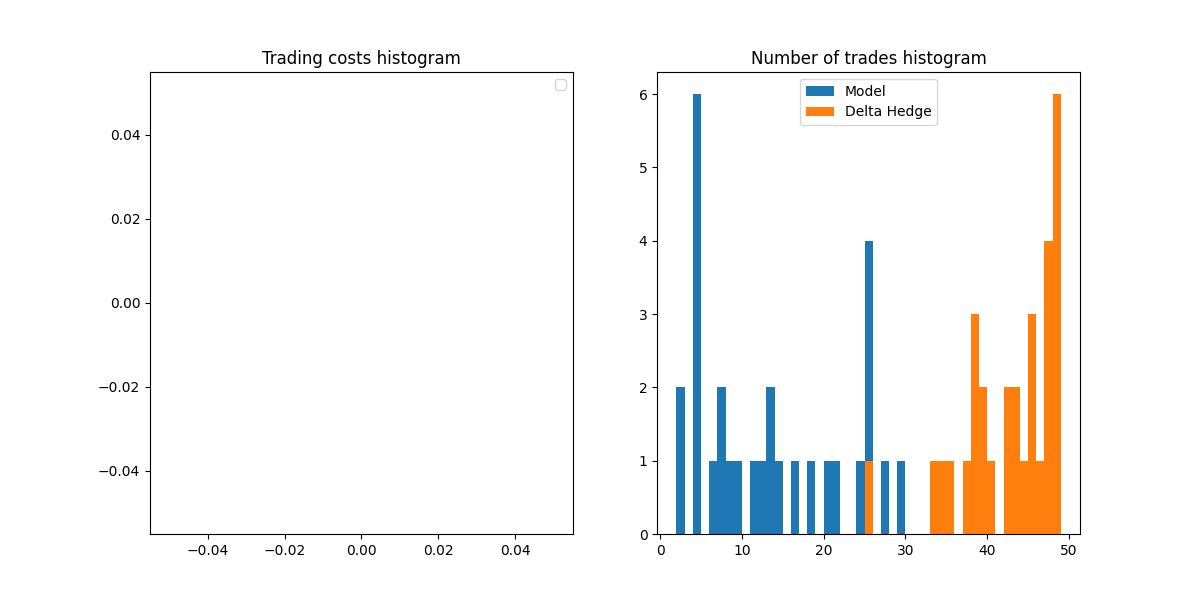
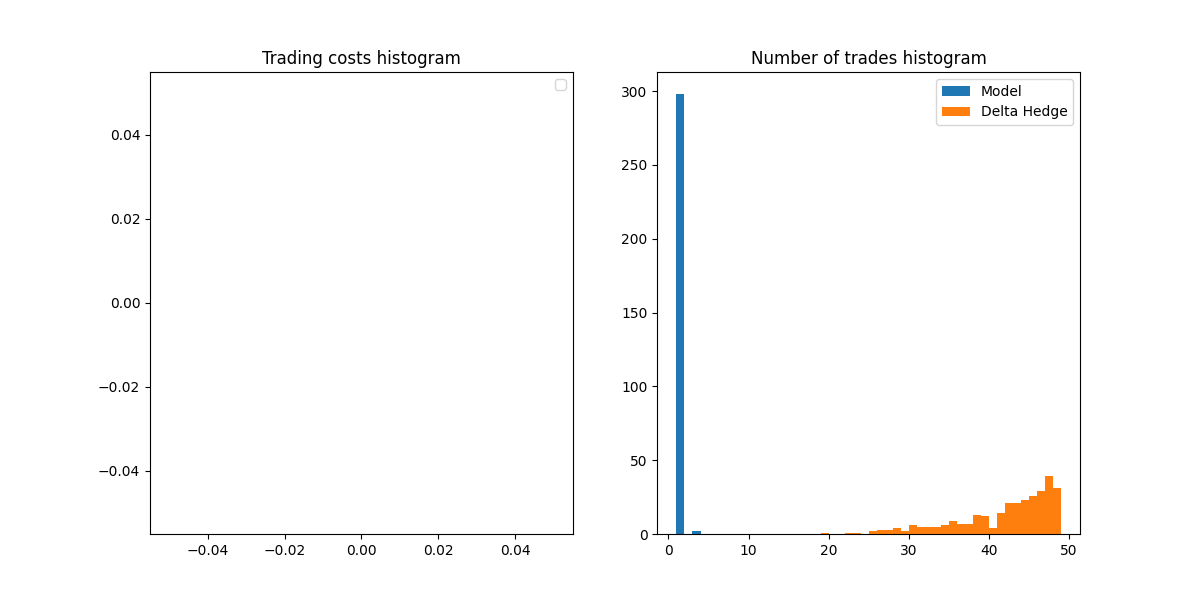
another update: calc vega of a barrier claim

Changed region(s): [[0.5242, 0.12, 0.8942, 0.93]]

diff --git a/Generators.py b/Generators.py
@@ -2,7 +2,7 @@ import numpy as np
 import pandas as pd
 import random
 from random import gauss
-from math import sqrt, exp
+from math import log, sqrt, exp
 from scipy.stats import norm
 
 class GBM_Generator:
@@ -35,6 +35,7 @@ class GBM_Generator:
         self.freq = freq # e.g. freq = 0.5 for trading twice a day
         self.dt = (1.0 / self.T) * freq # time increment
         self.H = barrier
+        self.is_knocked = False
         if seed is not None:
             random.seed(seed)
         
@@ -69,7 +70,7 @@ class GBM_Generator:
         
         return value
 
-    def get_barrier_value(self, K, ttm, up, out, is_knocked = False, call = True):
+    def get_barrier_value(self, K, ttm, up, out, call = True):
         """
         Calculates down & in barrier call/put price under current GBM dynamics.
         
@@ -78,6 +79,14 @@ class GBM_Generator:
             - ttm  = time to maturity in periods
             - call = True/False, whether it's a call or a put
         """
+        if self.is_knocked:
+            is_knocked = True
+        elif (up and (self.current > self.H)) or ((not up) and (self.current < self.H)):
+            self.is_knocked = True
+            is_knocked = True
+        else:
+            is_knocked = False
+
         if is_knocked:
             if out:
                 return 0.0
@@ -170,10 +179,77 @@ class GBM_Generator:
                     else: return down_in_put
         
     
+    def get_DIP_delta(self, spot, K, ttm):
+        if spot < self.H:
+            is_knocked = True
+        elif self.is_knocked:
+            is_knocked = True
+        else:
+            is_knocked = False
+
+        if is_knocked:
+            return self.get_delta(spot, K, ttm) - 1
+
+        ttm = ttm * self.dt # adjusting to annual terms
+        _lambda = 0.5 + self.r / (self.sigma ** 2)
+        c = 1 / ( self.sigma * sqrt(ttm))
+        y = _lambda * (1 / c) + c * log(self.H ** 2 / (spot * K))
+        y1 = _lambda * (1 / c) + c * log(self.H / spot)
+        x1 = _lambda * (1 / c) + c * log(spot / self.H)
+        dfK = K * exp(-self.r * ttm)
+        HS = self.H / spot
+        
+
+        delta = - norm.cdf(-x1) + c * norm.pdf(-x1) - dfK * c * (1 / spot) * norm.pdf(1 / c - x1) \
+                + (1 - 2 * _lambda) * (HS ** (2 * _lambda)) * (norm.cdf(y) - norm.cdf(y1)) \
+                + (HS ** (2 * _lambda)) * c * (norm.pdf(y1) - norm.pdf(y)) \
+                + (2 * _lambda - 2) * dfK * (HS ** (2 * _lambda - 1)) * (1 / self.H) * (norm.cdf(y - 1 / c) - norm.cdf(y1 - 1 / c)) \
+                - dfK * (HS ** (2 * _lambda - 2)) * c * (1 / spot) * (norm.pdf(y1 - 1 / c) - norm.pdf(y - 1 / c))
+
+        return delta
+
     def get_delta(self, spot, K, ttm):
         ttm = ttm * self.dt # adjusting to annual terms
         d1 = (np.log(spot/K) + (self.r + self.sigma**2/2) * ttm ) / (self.sigma * sqrt(ttm))
         return norm.cdf(d1)
+
+    def get_vega(self, spot, K, ttm):
+        ttm = ttm * self.dt
+        d1 = (np.log(spot/K) + (self.r + self.sigma**2/2) * ttm ) / (self.sigma * sqrt(ttm))
+        dd1 = sqrt(ttm) / 2 - (np.log(spot/K) + self.r * ttm) / (sqrt(ttm) * self.sigma ** 2)
+        return spot * sqrt(ttm) * norm.pdf(d1)
+
+    def get_DIP_vega(self, spot, K, ttm):
+        if spot < self.H:
+            is_knocked = True
+        elif self.is_knocked:
+            is_knocked = True
+        else:
+            is_knocked = False
+
+        if is_knocked:
+            return self.get_vega(spot, K, ttm)
+
+        ttm = ttm * self.dt # adjusting to annual terms
+        _lambda = 0.5 + self.r / (self.sigma ** 2)
+        c = 1 / ( self.sigma * sqrt(ttm))
+        c2 = c / self.sigma
+        y = _lambda * (1 / c) + c * log(self.H ** 2 / (spot * K))
+        y1 = _lambda * (1 / c) + c * log(self.H / spot)
+        x1 = _lambda * (1 / c) + c * log(spot / self.H)
+        dfK = K * exp(-self.r * ttm)
+        HS = self.H / spot
+
+        d = sqrt(ttm) * (0.5 - self.r / (self.sigma ** 2))
+
+        vega = spot * norm.pdf(-x1) * (d - log(spot/self.H) * c2) \
+            + dfK * norm.pdf(1 / c - x1) * (sqrt(ttm) + log(spot/self.H) * c2 - d) \
+            - spot * (HS ** (2 * _lambda)) * log(HS) * 4 * self.r / (self.sigma ** 3) * (norm.cdf(y) - norm.cdf(y1)) \
+            + spot * (HS ** (2 * _lambda)) * (norm.pdf(y) * (d - c2 * log(HS * self.H / K)) - norm.pdf(y1) * (d - c2 * log(HS))) \
+            + dfK * (HS ** (2 * _lambda - 2)) * log(HS) * 4 * self.r / (self.sigma ** 3) * (norm.cdf(y - 1/c) - norm.cdf(y1 - 1/c)) \
+            - dfK * (HS ** (2 * _lambda - 2)) * (norm.pdf(y - 1/c) * (d - sqrt(ttm) - c2 * log(HS * self.H / K)) - norm.pdf(y1 - 1/c) * (d - sqrt(ttm) - c2 * log(HS)))
+
+        return vega
     
     def reset(self):
         self.current = self.initial

diff --git a/Main.py b/Main.py
@@ -4,6 +4,7 @@ from Generators import GBM_Generator
 import Models
 import Utils
 import numpy as np
+import matplotlib.pyplot as plt
 
 
 ##### Environment config ###############
@@ -13,7 +14,7 @@ r = 0.0 # Annualized
 S0 = 100
 freq = 0.2 # corresponds to trading freq of 5x per day
 ttm = 50
-kappa = 0.1
+kappa = 0.0
 cost_multiplier = 0.0
 discount = 0.85
 
@@ -34,9 +35,9 @@ env = DiscreteEnv(**env_args)
 
 observe_dim = 3
 action_num = 101
-solved_reward = 0
+solved_reward = 550
 solved_repeat = 7
-max_episodes = 5000
+max_episodes = 15000
 
 # 1 epoch = 3000 episodes = 150k time-steps
 epoch = 150000
@@ -47,7 +48,7 @@ n_epochs_per_update = 5
 final_eps = 0.05
 eps_decay = np.exp(np.log(final_eps)/(max_episodes*50))
 
-layers = [16, 32, 32, 64]
+layers = [16, 32, 32, 32]
 learning_rate = 1e-5
 
 n_sim = 300
@@ -60,7 +61,7 @@ eps_func = Utils.EpsFunction(n_steps).get_func()
 if __name__ == "__main__":
     ## TESTING DQN
     # dqn = Models.DQN_Model(observe_dim, action_num, layers, eps_decay, learning_rate=learning_rate, batch_size=batch_size, discount=discount)
-    # dqn.train(max_episodes=max_episodes, env=env, solved_reward=solved_reward, solved_repeat=solved_repeat, load_weights=False, save_weights=False)
+    # dqn.train(max_episodes=max_episodes, env=env, solved_reward=solved_reward, solved_repeat=solved_repeat, load_weights=False, save_weights=True)
 
     # generator = GBM_Generator(S0, r, sigma, freq)
     # env_args = {
@@ -103,3 +104,22 @@ if __name__ == "__main__":
     #     "testing" : True
     # }
     # agent.test(generator, env_args, n_sim=n_sim)
+
+    # gen = GBM_Generator(100.0, 0.0, 0.2, 1, None, 80.0)
+    # und = []
+    # opt = []
+    # bar = []
+    
+    # for i in range(50):
+    #     #und.append(gen.current)
+    #     bar.append(gen.get_DIP_vega(spot = 60.0 + i, K = 100.0, ttm = 5))
+    #     opt.append(gen.get_vega(spot = 60.0 + i, K = 80.0, ttm = 5) )
+    #     #gen.get_next()
+
+    # plt.figure(1, figsize=(12, 8))
+    # # plt.subplot(121)
+    # # plt.plot(und)
+    # # plt.subplot(122)
+    # plt.plot(opt)
+    # plt.plot(bar)
+    # plt.show()

diff --git a/Environments.py b/Environments.py
@@ -51,6 +51,18 @@ class DiscreteEnv(gym.Env):
         # Initalize state
         self.state = self._initiate_state()
 
+        # Define payoff (to be changed)
+        self.derivative_type = "option"
+        self.call = True
+        self.up = True
+        self.out = False
+
+    def _get_derivative_value(self):
+        if self.derivative_type == "option":
+            return self.generator.get_option_value(self.K, self.state[-1], self.call)
+        elif self.derivative_type == "barrier":
+            return self.generator.get_barrier_value(self.K, self.state[-1], self.up, self.out, self.call)
+
     def _initiate_state(self):
         return [0, self.generator.current, self.expiry]
 
@@ -70,7 +82,7 @@ class DiscreteEnv(gym.Env):
         
         # calc portfolio value at the beginning of the step & at the end to get reward
         old_cost = self.cost # cumulative trading costs
-        old_option_value = self.generator.get_option_value(self.K, self.state[-1])
+        old_option_value = self._get_derivative_value()
         old_und_value = self.state[1]
         
         # state: s -> s+1
@@ -79,7 +91,7 @@ class DiscreteEnv(gym.Env):
 
         new_und = self.generator.get_next()
         self.state = [action, new_und, self.state[-1] - 1]
-        new_option_value = self.generator.get_option_value(self.K, self.state[-1])
+        new_option_value = self._get_derivative_value()
         
         # Calculate reward
         reward = self.reward_func(new_option_value, old_option_value, 
@@ -131,7 +143,7 @@ class DiscreteEnv(gym.Env):
         
         self.generator.reset()
         self.K = self.generator.current
-        option_value = self.generator.get_option_value(self.K, self.expiry, True)
+        option_value = self._get_derivative_value()
         
         # Reset some attributes
         self.cost = 0

diff --git a/models.py b/models.py
@@ -452,11 +452,12 @@ class PPO_Model(Model):
                     state = t.tensor(state, dtype=t.float32).view(1, self.observe_dim)
                     total_reward += reward
                     
+                    clipped_reward = np.clip(reward,-10.0,10.0)
                     ep_list.append({
                         "state": {"state": old_state},
                         "action": {"action": action},
                         "next_state": {"state": state},
-                        "reward": reward,
+                        "reward": clipped_reward,
                         "terminal": terminal
                     })
 
